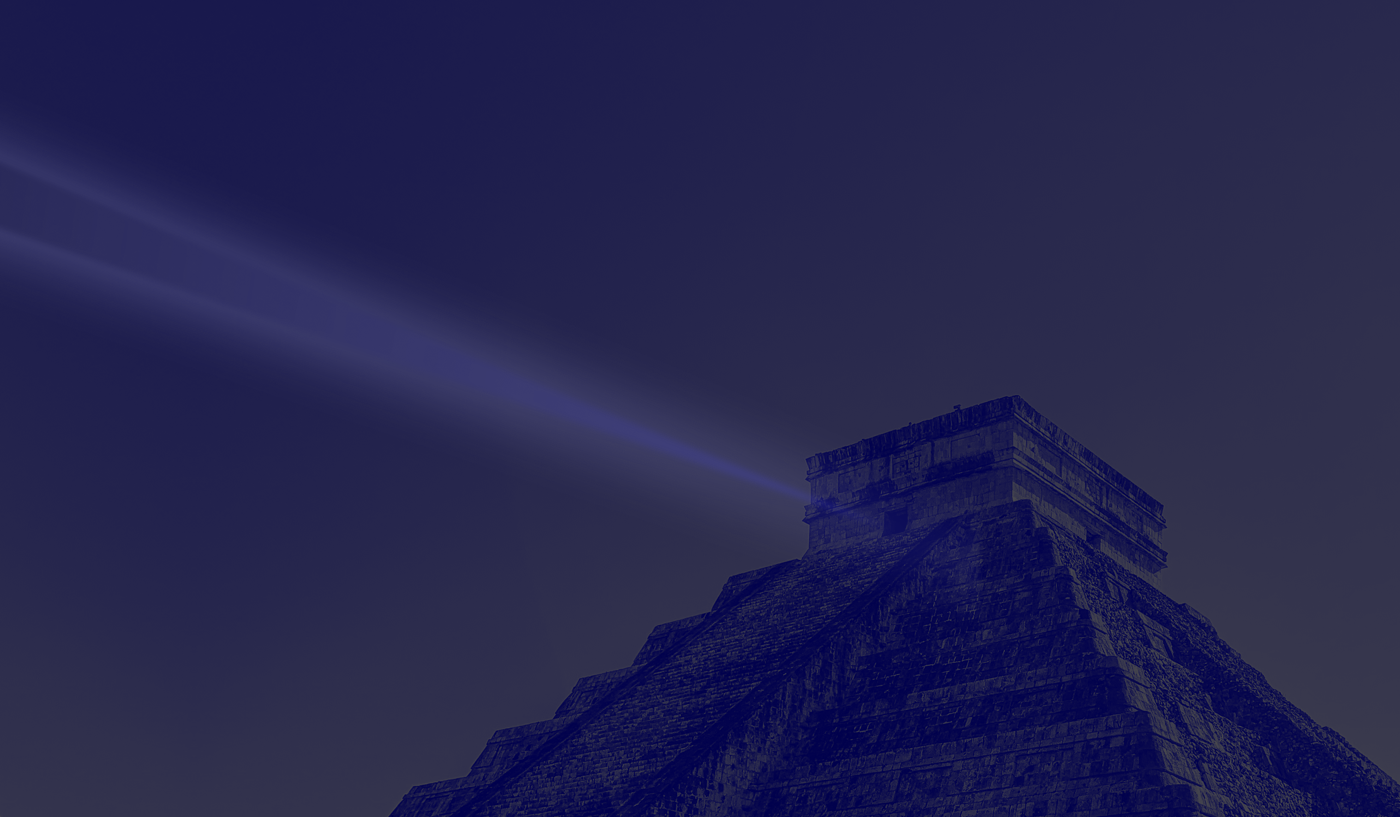
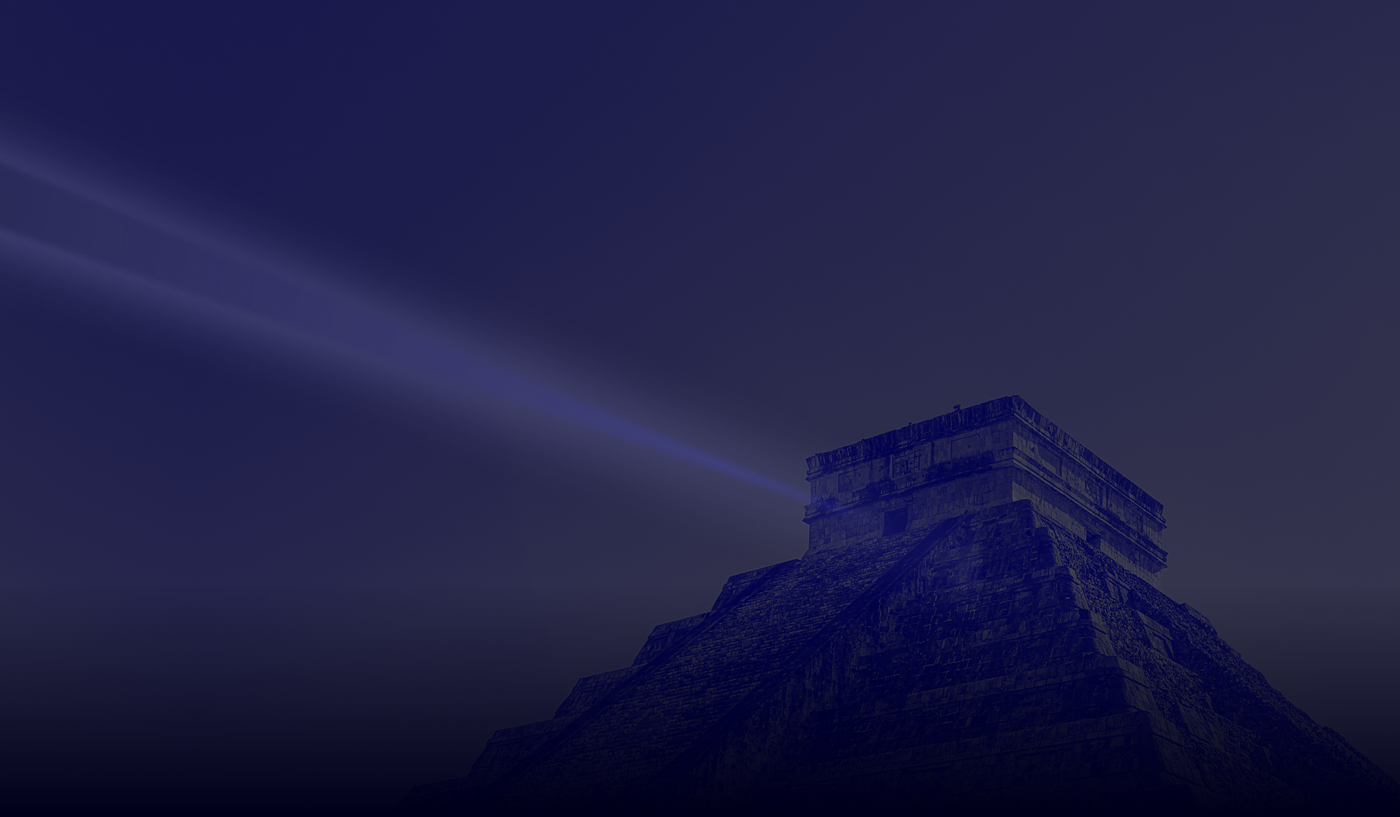
updates to color and background image with gradient

Changed region(s): [[0.0, 0.8262, 1.0, 1.0]]

diff --git a/css/grayscale.min.css b/css/grayscale.min.css
@@ -2,4 +2,4 @@
  * Start Bootstrap - Grayscale v5.0.8 (https://startbootstrap.com/template-overviews/grayscale)
  * Copyright 2013-2019 Start Bootstrap
  * Licensed under MIT (https://github.com/BlackrockDigital/startbootstrap-grayscale/blob/master/LICENSE)
- */#mainNav{min-height:56px;background-color:#003;border-radius:0;border-bottom:1px solid #009;box-shadow:0 0 12px 0 rgba(0,0,0,.4)!important}#mainNav .navbar{padding:.25rem}#mainNav .navbar-toggler{font-size:80%;padding:1rem;color:#8080ff;border:1px solid #8080ff;border-radius:0}#mainNav .navbar-toggler:focus{outline:0}#mainNav .navbar-toggler:focus:hover{color:#8080ff;border:1px solid #8080ff}#mainNav .navbar-brand{color:#ccc;font-weight:700;padding:0}.navbar-dark .navbar-nav .nav-link{transition:.5s;color:#ccc;padding:1rem 1rem}.navbar-dark .navbar-nav .nav-link:hover{color:#8080ff}.navbar-dark .navbar-nav .nav-link.active{color:#8080ff}.nav-svg{height:40px}.masthead{position:relative;min-height:35rem;padding:15rem 0;-o-object-fit:cover;object-fit:cover;overflow:hidden;height:100vh}.masthead:before{content:' ';opacity:1;-webkit-animation:bg-animation 2.8s ease-in 0s;animation:bg-animation 2.8s ease-in 0s;top:0;position:absolute;width:100%;height:100%;background-color:#00f;background:url(../img/sn-bg-large-1.png);background-position:top center;background-repeat:no-repeat;background-attachment:scroll;background-size:cover;z-index:-1}h4{font-size:1rem;font-family:"Barlow Condensed",sans-serif;line-height:1.375rem;text-transform:uppercase}h3{font-size:2rem;font-family:"Barlow Condensed",sans-serif;line-height:2.375rem;text-transform:uppercase}h2{font-size:3rem;font-family:"Barlow Condensed",sans-serif;line-height:3.375rem;text-transform:uppercase}h1{font-size:4rem;font-family:"Barlow Condensed",sans-serif;line-height:4.375rem;text-transform:uppercase}@media screen and (max-width:768px){h4{font-size:.75rem;font-family:"Barlow Condensed",sans-serif;line-height:1rem;text-transform:uppercase}h3{font-size:1.5rem;font-family:"Barlow Condensed",sans-serif;line-height:1.75rem;text-transform:uppercase}h2{font-size:2.25rem;font-family:"Barlow Condensed",sans-serif;line-height:2.5rem;text-transform:uppercase}h1{font-size:3rem;font-family:"Barlow Condensed",sans-serif;line-height:3.25rem;text-transform:uppercase}}.btn{padding:.5rem;font-family:"Open Sans",sans-serif;font-size:80%;text-transform:uppercase;letter-spacing:0;border:0;box-shadow:0 22px 12px -14px rgba(0,0,0,.2)!important;transition:all 2s ease 0s;outline:0;border-radius:0;border-color:none}.btn-primary{background:#00f;text-decoration:none}.btn-primary:hover{color:#fff;background-color:#33f;box-shadow:0 14px 6px -8px rgba(0,0,0,.3)!important;transform:translateY(-2px);transition-duration:.5s}.btn-primary:focus{color:#fff;background-color:#33f;box-shadow:0 16px 6px -8px rgba(0,0,0,.3)!important;outline:0}.btn-primary:active{color:#fff;background-color:#0000b3!important;box-shadow:0 8px 6px -8px rgba(0,0,0,.5);transform:translateY(1px);transition-duration:.1s;transition-delay:0s}.btn-primary:not(:disabled):not(.disabled).active{border-color:none}.btn-project{margin-top:1rem}a{color:#8080ff;text-decoration:none}a:hover{color:#e6e6ff;text-decoration:underline}.projects-section .featured-text{color:#fff;padding:2rem}@media (min-width:320px){.projects-section .featured-text{padding:0 0 0 2rem;border-left:.5rem solid #00f}}.projects-section .project-text{padding:2rem;font-size:90%}@media (min-width:992px){.projects-section .project-text{padding:2rem}.projects-section .project-text hr{border-color:#00f;border-width:.25rem;width:30%}}.contact-section{padding:4rem 0 0}.contact-section .card{border:0;border-bottom:.25rem solid #00f}.contact-section .card h4{font-size:.8rem;font-family:"Barlow Condensed",sans-serif;text-transform:uppercase;letter-spacing:.15rem}.contact-section .card hr{border-color:#00f;border-width:.25rem;width:3rem}.contact-section .social{margin-top:5rem}.contact-section .social a{text-align:center;height:3rem;width:3rem;background:rgba(255,255,255,.1);border-radius:100%;line-height:3rem;color:rgba(255,255,255,.3)}.contact-section .social a:hover{color:rgba(255,255,255,.5)}.contact-section .social a:active{color:#fff}.h1-my-name-animation{color:#fff;-webkit-animation:text-flicker-in-glow 1s ease-in 3s;animation:text-flicker-in-glow 1s ease-in 3s;-webkit-animation-fill-mode:backwards;animation-fill-mode:backwards}.fadeIn{-webkit-animation:fadeIn 1s ease-in-out 1.6s;animation:fadeIn 1s ease-in-out 1.6s;-webkit-animation-fill-mode:backwards;animation-fill-mode:backwards}.tagline-fadeIn{-webkit-animation:text-flicker-in-glow 2s ease-in 0s;animation:text-flicker-in-glow 2s ease-in 0s;-webkit-animation-fill-mode:backwards;animation-fill-mode:backwards}.btn-moveInFromTop{-webkit-animation:btn-moveInFromTop 2.6s ease-in 0s;animation:btn-moveInFromTop 2.6s ease-in 0s;-webkit-animation-fill-mode:backwards;animation-fill-mode:backwards}@-webkit-keyframes fadeIn{0%{transform:translateY(-12px);opacity:0;filter:blur(12px);-webkit-filter:blur(12px)}10%{opacity:0}100%{transform:translateY(0);opacity:1;filter:blur(0);-webkit-filter:blur(0)}}@keyframes fadeIn{0%{transform:translateY(-12px);opacity:0;filter:blur(12px);-webkit-filter:blur(12px)}10%{opacity:0}100%{transform:translateY(0);opacity:1;filter:blur(0);-webkit-filter:blur(0)}}@-webkit-keyframes bg-animation{0%{opacity:0;background:url(../img/sn-bg-large-0.png);background-position:top center;background-repeat:no-repeat;background-attachment:scroll;background-size:cover;filter:blur(8px);-webkit-filter:blur(8px)}80%{opacity:1;background:url(../img/sn-bg-large-0.png);background-position:top center;background-repeat:no-repeat;background-attachment:scroll;background-size:cover}100%{opacity:1;background:url(../img/sn-bg-large-1.png);background-position:top center;background-repeat:no-repeat;background-attachment:scroll;background-size:cover}}@keyframes bg-animation{0%{opacity:0;background:url(../img/sn-bg-large-0.png);background-position:top center;background-repeat:no-repeat;background-attachment:scroll;background-size:cover;filter:blur(8px);-webkit-filter:blur(8px)}80%{opacity:1;background:url(../img/sn-bg-large-0.png);background-position:top center;background-repeat:no-repeat;background-attachment:scroll;background-size:cover}100%{opacity:1;background:url(../img/sn-bg-large-1.png);background-position:top center;background-repeat:no-repeat;background-attachment:scroll;background-size:cover}}@-webkit-keyframes btn-moveInFromTop{0%{opacity:1;transform:translateY(-1000px);background-color:#fff;filter:blur(40px);-webkit-filter:blur(40px);border-radius:100px}50%{opacity:.5;filter:blur(12px);-webkit-filter:blur(12px);background-color:#fff;border-radius:100px}80%{opacity:0;transform:translateY(0);filter:blur(12px);-webkit-filter:blur(12px);background-color:#fff;border-radius:100px}100%{opacity:1;transform:translateY(0);filter:blur(0);-webkit-filter:blur(0);background-color:#00f;border-radius:0}}@keyframes btn-moveInFromTop{0%{opacity:1;transform:translateY(-1000px);background-color:#fff;filter:blur(40px);-webkit-filter:blur(40px);border-radius:100px}50%{opacity:.5;filter:blur(12px);-webkit-filter:blur(12px);background-color:#fff;border-radius:100px}80%{opacity:0;transform:translateY(0);filter:blur(12px);-webkit-filter:blur(12px);background-color:#fff;border-radius:100px}100%{opacity:1;transform:translateY(0);filter:blur(0);-webkit-filter:blur(0);background-color:#00f;border-radius:0}}@-webkit-keyframes text-flicker-in-glow{0%{opacity:0;filter:blur(6px);-webkit-filter:blur(6px)}10%{opacity:0;text-shadow:none}10.1%{opacity:1;text-shadow:none}10.2%{opacity:0;text-shadow:none}20%{opacity:0;text-shadow:none}20.1%{opacity:1;text-shadow:0 0 30px rgba(255,255,255,.25)}20.6%{opacity:0;text-shadow:none}30%{opacity:0;text-shadow:none}30.1%{opacity:1;text-shadow:0 0 30px rgba(255,255,255,.45),0 0 60px rgba(255,255,255,.25)}30.5%{opacity:1;text-shadow:0 0 30px rgba(255,255,255,.45),0 0 60px rgba(255,255,255,.25)}30.6%{opacity:0;text-shadow:none}45%{opacity:0;text-shadow:none}45.1%{opacity:1;text-shadow:0 0 30px rgba(255,255,255,.45),0 0 60px rgba(255,255,255,.25)}50%{opacity:1;text-shadow:0 0 30px rgba(255,255,255,.45),0 0 60px rgba(255,255,255,.25)}55%{opacity:1;text-shadow:0 0 30px rgba(255,255,255,.45),0 0 60px rgba(255,255,255,.25)}55.1%{opacity:0;text-shadow:none}57%{opacity:0;text-shadow:none}57.1%{opacity:1;text-shadow:0 0 30px rgba(255,255,255,.55),0 0 60px rgba(255,255,255,.35)}60%{opacity:1;text-shadow:0 0 30px rgba(255,255,255,.55),0 0 60px rgba(255,255,255,.35)}60.1%{opacity:0;text-shadow:none}65%{opacity:0;text-shadow:none}65.1%{opacity:1;text-shadow:0 0 30px rgba(255,255,255,.55),0 0 60px rgba(255,255,255,.35),0 0 100px rgba(255,255,255,.1)}75%{opacity:1;text-shadow:0 0 30px rgba(255,255,255,.55),0 0 60px rgba(255,255,255,.35),0 0 100px rgba(255,255,255,.1)}75.1%{opacity:0;text-shadow:none}77%{opacity:0;text-shadow:none}77.1%{opacity:1;text-shadow:0 0 30px rgba(255,255,255,.55),0 0 60px rgba(255,255,255,.4),0 0 110px rgba(255,255,255,.2),0 0 100px rgba(255,255,255,.1)}85%{opacity:1;text-shadow:0 0 30px rgba(255,255,255,.55),0 0 60px rgba(255,255,255,.4),0 0 110px rgba(255,255,255,.2),0 0 100px rgba(255,255,255,.1);filter:blur(0);-webkit-filter:blur(0)}85.1%{opacity:0;text-shadow:none}86%{opacity:0;text-shadow:none}86.1%{opacity:1;text-shadow:0 0 30px rgba(255,255,255,.6),0 0 60px rgba(255,255,255,.45),0 0 110px rgba(255,255,255,.25),0 0 100px rgba(255,255,255,.1)}100%{opacity:1;text-shadow:0 0 30px rgba(255,255,255,.6),0 0 60px rgba(255,255,255,.45),0 0 110px rgba(255,255,255,.25),0 0 100px rgba(255,255,255,.1)}}@keyframes text-flicker-in-glow{0%{opacity:0;filter:blur(6px);-webkit-filter:blur(6px)}10%{opacity:0;text-shadow:none}10.1%{opacity:1;text-shadow:none}10.2%{opacity:0;text-shadow:none}20%{opacity:0;text-shadow:none}20.1%{opacity:1;text-shadow:0 0 30px rgba(255,255,255,.25)}20.6%{opacity:0;text-shadow:none}30%{opacity:0;text-shadow:none}30.1%{opacity:1;text-shadow:0 0 30px rgba(255,255,255,.45),0 0 60px rgba(255,255,255,.25)}30.5%{opacity:1;text-shadow:0 0 30px rgba(255,255,255,.45),0 0 60px rgba(255,255,255,.25)}30.6%{opacity:0;text-shadow:none}45%{opacity:0;text-shadow:none}45.1%{opacity:1;text-shadow:0 0 30px rgba(255,255,255,.45),0 0 60px rgba(255,255,255,.25)}50%{opacity:1;text-shadow:0 0 30px rgba(255,255,255,.45),0 0 60px rgba(255,255,255,.25)}55%{opacity:1;text-shadow:0 0 30px rgba(255,255,255,.45),0 0 60px rgba(255,255,255,.25)}55.1%{opacity:0;text-shadow:none}57%{opacity:0;text-shadow:none}57.1%{opacity:1;text-shadow:0 0 30px rgba(255,255,255,.55),0 0 60px rgba(255,255,255,.35)}60%{opacity:1;text-shadow:0 0 30px rgba(255,255,255,.55),0 0 60px rgba(255,255,255,.35)}60.1%{opacity:0;text-shadow:none}65%{opacity:0;text-shadow:none}65.1%{opacity:1;text-shadow:0 0 30px rgba(255,255,255,.55),0 0 60px rgba(255,255,255,.35),0 0 100px rgba(255,255,255,.1)}75%{opacity:1;text-shadow:0 0 30px rgba(255,255,255,.55),0 0 60px rgba(255,255,255,.35),0 0 100px rgba(255,255,255,.1)}75.1%{opacity:0;text-shadow:none}77%{opacity:0;text-shadow:none}77.1%{opacity:1;text-shadow:0 0 30px rgba(255,255,255,.55),0 0 60px rgba(255,255,255,.4),0 0 110px rgba(255,255,255,.2),0 0 100px rgba(255,255,255,.1)}85%{opacity:1;text-shadow:0 0 30px rgba(255,255,255,.55),0 0 60px rgba(255,255,255,.4),0 0 110px rgba(255,255,255,.2),0 0 100px rgba(255,255,255,.1);filter:blur(0);-webkit-filter:blur(0)}85.1%{opacity:0;text-shadow:none}86%{opacity:0;text-shadow:none}86.1%{opacity:1;text-shadow:0 0 30px rgba(255,255,255,.6),0 0 60px rgba(255,255,255,.45),0 0 110px rgba(255,255,255,.25),0 0 100px rgba(255,255,255,.1)}100%{opacity:1;text-shadow:0 0 30px rgba(255,255,255,.6),0 0 60px rgba(255,255,255,.45),0 0 110px rgba(255,255,255,.25),0 0 100px rgba(255,255,255,.1)}}body{background-color:#00001a}body p{font-family:"Open Sans",sans-serif;letter-spacing:.0625em;line-height:1.5rem}@media (min-width:992px){#mainNav{height:56px;padding-top:0;padding-bottom:0;background-color:#00001a;border-bottom:1px solid #009;transition:background-color .3s ease-in-out;box-shadow:0 0 12px 0 rgba(0,0,0,.4)!important}#mainNav .navbar-brand{padding:.5rem 0;color:#ccc}#mainNav .navbar-brand:hover{color:#8080ff}#mainNav .nav-link{transition:none;padding:1rem 1.5rem .8rem 1.5rem;color:#ccc;border-bottom:.25rem solid transparent;transition:.5s}#mainNav .nav-link:hover{color:#8080ff}#mainNav .nav-link:active{color:#8080ff}#mainNav.navbar-shrink{background-color:#003}#mainNav.navbar-shrink .navbar-brand{color:#ccc}#mainNav.navbar-shrink .navbar-brand:hover{color:#8080ff}#mainNav.navbar-shrink .nav-link{color:#ccc;padding:1rem 1.5rem .8rem 1.5rem;border-bottom:.25rem solid transparent}#mainNav.navbar-shrink .nav-link:hover{color:#8080ff}#mainNav.navbar-shrink .nav-link:active{color:#8080ff}#mainNav.navbar-shrink .nav-link.active{color:#8080ff;outline:0;border-bottom:.25rem solid #8080ff}}.bg-black{background-color:#00004d!important}.bg-dark{background-color:#2b2b2b!important}.bg-primary{background-color:#00f!important}.text-primary{color:#00f!important}footer{padding:3rem 0}.img-fluid{width:100%;height:auto}@media (max-width:992px){.mb-mobile-2{margin-bottom:2rem}}.flex-center{display:flex;align-items:center;justify-content:center}.contact-section .card{border:0;border-bottom:.25rem solid navy}.contact-section .card hr{border:0;border-bottom:.25rem solid navy}.rotate-90-deg{transform:rotate(90deg)}.rotate-180-deg{transform:rotate(180deg)}@media (max-width:992px){.rotate-180-deg{transform:rotate(0)}}
+ */#mainNav{min-height:56px;background-color:#003;border-radius:0;border-bottom:1px solid #009;box-shadow:0 0 12px 0 rgba(0,0,0,.4)!important}#mainNav .navbar{padding:.25rem}#mainNav .navbar-toggler{font-size:80%;padding:1rem;color:#8080ff;border:1px solid #8080ff;border-radius:0}#mainNav .navbar-toggler:focus{outline:0}#mainNav .navbar-toggler:focus:hover{color:#8080ff;border:1px solid #8080ff}#mainNav .navbar-brand{color:#ccc;font-weight:700;padding:0}.navbar-dark .navbar-nav .nav-link{transition:.5s;color:#ccc;padding:1rem 1rem}.navbar-dark .navbar-nav .nav-link:hover{color:#8080ff}.navbar-dark .navbar-nav .nav-link.active{color:#8080ff}.nav-svg{height:48px}.masthead{position:relative;min-height:35rem;padding:15rem 0;-o-object-fit:cover;object-fit:cover;overflow:hidden;height:100vh}.masthead:before{content:' ';opacity:1;-webkit-animation:bg-animation 2.8s ease-in 0s;animation:bg-animation 2.8s ease-in 0s;top:0;position:absolute;width:100%;height:100%;background-color:#00f;background:url(../img/sn-bg-large-1.png);background-position:bottom center;background-repeat:no-repeat;background-attachment:scroll;background-size:cover;z-index:-1}h4{font-size:1rem;font-family:"Barlow Condensed",sans-serif;line-height:1.375rem;text-transform:uppercase}h3{font-size:2rem;font-family:"Barlow Condensed",sans-serif;line-height:2.375rem;text-transform:uppercase}h2{font-size:3rem;font-family:"Barlow Condensed",sans-serif;line-height:3.375rem;text-transform:uppercase}h1{font-size:4rem;font-family:"Barlow Condensed",sans-serif;line-height:4.375rem;text-transform:uppercase}@media screen and (max-width:768px){h4{font-size:.75rem;font-family:"Barlow Condensed",sans-serif;line-height:1rem;text-transform:uppercase}h3{font-size:1.5rem;font-family:"Barlow Condensed",sans-serif;line-height:1.75rem;text-transform:uppercase}h2{font-size:2.25rem;font-family:"Barlow Condensed",sans-serif;line-height:2.5rem;text-transform:uppercase}h1{font-size:3rem;font-family:"Barlow Condensed",sans-serif;line-height:3.25rem;text-transform:uppercase}}.btn{padding:.5rem;font-family:"Open Sans",sans-serif;font-size:80%;text-transform:uppercase;letter-spacing:0;border:0;box-shadow:0 22px 12px -14px rgba(0,0,0,.2)!important;transition:all 2s ease 0s;outline:0;border-radius:0;border-color:none}.btn-primary{background:#00f;text-decoration:none}.btn-primary:hover{color:#fff;background-color:#33f;box-shadow:0 14px 6px -8px rgba(0,0,0,.3)!important;transform:translateY(-2px);transition-duration:.5s}.btn-primary:focus{color:#fff;background-color:#33f;box-shadow:0 16px 6px -8px rgba(0,0,0,.3)!important;outline:0}.btn-primary:active{color:#fff;background-color:#0000b3!important;box-shadow:0 8px 6px -8px rgba(0,0,0,.5);transform:translateY(1px);transition-duration:.1s;transition-delay:0s}.btn-primary:not(:disabled):not(.disabled).active{border-color:none}.btn-project{margin-top:1rem}a{color:#8080ff;text-decoration:none}a:hover{color:#e6e6ff;text-decoration:underline}.projects-section .featured-text{color:#fff;padding:2rem}@media (min-width:320px){.projects-section .featured-text{padding:0 0 0 2rem;border-left:.5rem solid #00f}}.projects-section .project-text{padding:2rem;font-size:90%}@media (min-width:992px){.projects-section .project-text{padding:2rem}.projects-section .project-text hr{border-color:#00f;border-width:.25rem;width:30%}}.contact-section{padding:4rem 0 0}.contact-section .card{border:0;border-bottom:.25rem solid #00f}.contact-section .card h4{font-size:.8rem;font-family:"Barlow Condensed",sans-serif;text-transform:uppercase;letter-spacing:.15rem}.contact-section .card hr{border-color:#00f;border-width:.25rem;width:3rem}.contact-section .social{margin-top:5rem}.contact-section .social a{text-align:center;height:3rem;width:3rem;background:rgba(255,255,255,.1);border-radius:100%;line-height:3rem;color:rgba(255,255,255,.3)}.contact-section .social a:hover{color:rgba(255,255,255,.5)}.contact-section .social a:active{color:#fff}.h1-my-name-animation{color:#fff;-webkit-animation:text-flicker-in-glow 1s ease-in 3s;animation:text-flicker-in-glow 1s ease-in 3s;-webkit-animation-fill-mode:backwards;animation-fill-mode:backwards}.fadeIn{-webkit-animation:fadeIn 1s ease-in-out 1.6s;animation:fadeIn 1s ease-in-out 1.6s;-webkit-animation-fill-mode:backwards;animation-fill-mode:backwards}.tagline-fadeIn{-webkit-animation:text-flicker-in-glow 2s ease-in 0s;animation:text-flicker-in-glow 2s ease-in 0s;-webkit-animation-fill-mode:backwards;animation-fill-mode:backwards}.btn-moveInFromTop{-webkit-animation:btn-moveInFromTop 2.6s ease-in 0s;animation:btn-moveInFromTop 2.6s ease-in 0s;-webkit-animation-fill-mode:backwards;animation-fill-mode:backwards}@-webkit-keyframes fadeIn{0%{transform:translateY(-12px);opacity:0;filter:blur(12px);-webkit-filter:blur(12px)}10%{opacity:0}100%{transform:translateY(0);opacity:1;filter:blur(0);-webkit-filter:blur(0)}}@keyframes fadeIn{0%{transform:translateY(-12px);opacity:0;filter:blur(12px);-webkit-filter:blur(12px)}10%{opacity:0}100%{transform:translateY(0);opacity:1;filter:blur(0);-webkit-filter:blur(0)}}@-webkit-keyframes bg-animation{0%{opacity:0;background:url(../img/sn-bg-large-0.png);background-position:bottom center;background-repeat:no-repeat;background-attachment:scroll;background-size:cover;filter:blur(8px);-webkit-filter:blur(8px)}80%{opacity:1;background:url(../img/sn-bg-large-0.png);background-position:bottom center;background-repeat:no-repeat;background-attachment:scroll;background-size:cover}100%{opacity:1;background:url(../img/sn-bg-large-1.png);background-position:bottom center;background-repeat:no-repeat;background-attachment:scroll;background-size:cover}}@keyframes bg-animation{0%{opacity:0;background:url(../img/sn-bg-large-0.png);background-position:bottom center;background-repeat:no-repeat;background-attachment:scroll;background-size:cover;filter:blur(8px);-webkit-filter:blur(8px)}80%{opacity:1;background:url(../img/sn-bg-large-0.png);background-position:bottom center;background-repeat:no-repeat;background-attachment:scroll;background-size:cover}100%{opacity:1;background:url(../img/sn-bg-large-1.png);background-position:bottom center;background-repeat:no-repeat;background-attachment:scroll;background-size:cover}}@-webkit-keyframes btn-moveInFromTop{0%{opacity:1;transform:translateY(-1000px);background-color:#fff;filter:blur(40px);-webkit-filter:blur(40px);border-radius:100px}50%{opacity:.5;filter:blur(12px);-webkit-filter:blur(12px);background-color:#fff;border-radius:100px}80%{opacity:0;transform:translateY(0);filter:blur(12px);-webkit-filter:blur(12px);background-color:#fff;border-radius:100px}100%{opacity:1;transform:translateY(0);filter:blur(0);-webkit-filter:blur(0);background-color:#00f;border-radius:0}}@keyframes btn-moveInFromTop{0%{opacity:1;transform:translateY(-1000px);background-color:#fff;filter:blur(40px);-webkit-filter:blur(40px);border-radius:100px}50%{opacity:.5;filter:blur(12px);-webkit-filter:blur(12px);background-color:#fff;border-radius:100px}80%{opacity:0;transform:translateY(0);filter:blur(12px);-webkit-filter:blur(12px);background-color:#fff;border-radius:100px}100%{opacity:1;transform:translateY(0);filter:blur(0);-webkit-filter:blur(0);background-color:#00f;border-radius:0}}@-webkit-keyframes text-flicker-in-glow{0%{opacity:0;filter:blur(6px);-webkit-filter:blur(6px)}10%{opacity:0;text-shadow:none}10.1%{opacity:1;text-shadow:none}10.2%{opacity:0;text-shadow:none}20%{opacity:0;text-shadow:none}20.1%{opacity:1;text-shadow:0 0 30px rgba(255,255,255,.25)}20.6%{opacity:0;text-shadow:none}30%{opacity:0;text-shadow:none}30.1%{opacity:1;text-shadow:0 0 30px rgba(255,255,255,.45),0 0 60px rgba(255,255,255,.25)}30.5%{opacity:1;text-shadow:0 0 30px rgba(255,255,255,.45),0 0 60px rgba(255,255,255,.25)}30.6%{opacity:0;text-shadow:none}45%{opacity:0;text-shadow:none}45.1%{opacity:1;text-shadow:0 0 30px rgba(255,255,255,.45),0 0 60px rgba(255,255,255,.25)}50%{opacity:1;text-shadow:0 0 30px rgba(255,255,255,.45),0 0 60px rgba(255,255,255,.25)}55%{opacity:1;text-shadow:0 0 30px rgba(255,255,255,.45),0 0 60px rgba(255,255,255,.25)}55.1%{opacity:0;text-shadow:none}57%{opacity:0;text-shadow:none}57.1%{opacity:1;text-shadow:0 0 30px rgba(255,255,255,.55),0 0 60px rgba(255,255,255,.35)}60%{opacity:1;text-shadow:0 0 30px rgba(255,255,255,.55),0 0 60px rgba(255,255,255,.35)}60.1%{opacity:0;text-shadow:none}65%{opacity:0;text-shadow:none}65.1%{opacity:1;text-shadow:0 0 30px rgba(255,255,255,.55),0 0 60px rgba(255,255,255,.35),0 0 100px rgba(255,255,255,.1)}75%{opacity:1;text-shadow:0 0 30px rgba(255,255,255,.55),0 0 60px rgba(255,255,255,.35),0 0 100px rgba(255,255,255,.1)}75.1%{opacity:0;text-shadow:none}77%{opacity:0;text-shadow:none}77.1%{opacity:1;text-shadow:0 0 30px rgba(255,255,255,.55),0 0 60px rgba(255,255,255,.4),0 0 110px rgba(255,255,255,.2),0 0 100px rgba(255,255,255,.1)}85%{opacity:1;text-shadow:0 0 30px rgba(255,255,255,.55),0 0 60px rgba(255,255,255,.4),0 0 110px rgba(255,255,255,.2),0 0 100px rgba(255,255,255,.1);filter:blur(0);-webkit-filter:blur(0)}85.1%{opacity:0;text-shadow:none}86%{opacity:0;text-shadow:none}86.1%{opacity:1;text-shadow:0 0 30px rgba(255,255,255,.6),0 0 60px rgba(255,255,255,.45),0 0 110px rgba(255,255,255,.25),0 0 100px rgba(255,255,255,.1)}100%{opacity:1;text-shadow:0 0 30px rgba(255,255,255,.6),0 0 60px rgba(255,255,255,.45),0 0 110px rgba(255,255,255,.25),0 0 100px rgba(255,255,255,.1)}}@keyframes text-flicker-in-glow{0%{opacity:0;filter:blur(6px);-webkit-filter:blur(6px)}10%{opacity:0;text-shadow:none}10.1%{opacity:1;text-shadow:none}10.2%{opacity:0;text-shadow:none}20%{opacity:0;text-shadow:none}20.1%{opacity:1;text-shadow:0 0 30px rgba(255,255,255,.25)}20.6%{opacity:0;text-shadow:none}30%{opacity:0;text-shadow:none}30.1%{opacity:1;text-shadow:0 0 30px rgba(255,255,255,.45),0 0 60px rgba(255,255,255,.25)}30.5%{opacity:1;text-shadow:0 0 30px rgba(255,255,255,.45),0 0 60px rgba(255,255,255,.25)}30.6%{opacity:0;text-shadow:none}45%{opacity:0;text-shadow:none}45.1%{opacity:1;text-shadow:0 0 30px rgba(255,255,255,.45),0 0 60px rgba(255,255,255,.25)}50%{opacity:1;text-shadow:0 0 30px rgba(255,255,255,.45),0 0 60px rgba(255,255,255,.25)}55%{opacity:1;text-shadow:0 0 30px rgba(255,255,255,.45),0 0 60px rgba(255,255,255,.25)}55.1%{opacity:0;text-shadow:none}57%{opacity:0;text-shadow:none}57.1%{opacity:1;text-shadow:0 0 30px rgba(255,255,255,.55),0 0 60px rgba(255,255,255,.35)}60%{opacity:1;text-shadow:0 0 30px rgba(255,255,255,.55),0 0 60px rgba(255,255,255,.35)}60.1%{opacity:0;text-shadow:none}65%{opacity:0;text-shadow:none}65.1%{opacity:1;text-shadow:0 0 30px rgba(255,255,255,.55),0 0 60px rgba(255,255,255,.35),0 0 100px rgba(255,255,255,.1)}75%{opacity:1;text-shadow:0 0 30px rgba(255,255,255,.55),0 0 60px rgba(255,255,255,.35),0 0 100px rgba(255,255,255,.1)}75.1%{opacity:0;text-shadow:none}77%{opacity:0;text-shadow:none}77.1%{opacity:1;text-shadow:0 0 30px rgba(255,255,255,.55),0 0 60px rgba(255,255,255,.4),0 0 110px rgba(255,255,255,.2),0 0 100px rgba(255,255,255,.1)}85%{opacity:1;text-shadow:0 0 30px rgba(255,255,255,.55),0 0 60px rgba(255,255,255,.4),0 0 110px rgba(255,255,255,.2),0 0 100px rgba(255,255,255,.1);filter:blur(0);-webkit-filter:blur(0)}85.1%{opacity:0;text-shadow:none}86%{opacity:0;text-shadow:none}86.1%{opacity:1;text-shadow:0 0 30px rgba(255,255,255,.6),0 0 60px rgba(255,255,255,.45),0 0 110px rgba(255,255,255,.25),0 0 100px rgba(255,255,255,.1)}100%{opacity:1;text-shadow:0 0 30px rgba(255,255,255,.6),0 0 60px rgba(255,255,255,.45),0 0 110px rgba(255,255,255,.25),0 0 100px rgba(255,255,255,.1)}}body{background-color:#00001a}body p{font-family:"Open Sans",sans-serif;letter-spacing:.0625em;line-height:1.5rem}@media (min-width:992px){#mainNav{height:56px;padding-top:0;padding-bottom:0;background-color:#00001a;border-bottom:1px solid #009;transition:background-color .3s ease-in-out;box-shadow:0 0 12px 0 rgba(0,0,0,.4)!important}#mainNav .navbar-brand{padding:.5rem 0;color:#ccc}#mainNav .navbar-brand:hover{color:#8080ff}#mainNav .nav-link{transition:none;padding:1rem 1.5rem .8rem 1.5rem;color:#ccc;border-bottom:.25rem solid transparent;transition:.5s}#mainNav .nav-link:hover{color:#8080ff}#mainNav .nav-link:active{color:#8080ff}#mainNav.navbar-shrink{background-color:#003}#mainNav.navbar-shrink .navbar-brand{color:#ccc}#mainNav.navbar-shrink .navbar-brand:hover{color:#8080ff}#mainNav.navbar-shrink .nav-link{color:#ccc;padding:1rem 1.5rem .8rem 1.5rem;border-bottom:.25rem solid transparent}#mainNav.navbar-shrink .nav-link:hover{color:#8080ff}#mainNav.navbar-shrink .nav-link:active{color:#8080ff}#mainNav.navbar-shrink .nav-link.active{color:#8080ff;outline:0;border-bottom:.25rem solid #8080ff}}.bg-black{background-color:#003!important}.bg-dark{background-color:#2b2b2b!important}.bg-primary{background-color:#00f!important}.text-primary{color:#00f!important}footer{padding:3rem 0}.img-fluid{width:100%;height:auto}@media (max-width:992px){.mb-mobile-2{margin-bottom:2rem}}.flex-center{display:flex;align-items:center;justify-content:center}.contact-section .card{border:0;border-bottom:.25rem solid navy}.contact-section .card hr{border:0;border-bottom:.25rem solid navy}.rotate-90-deg{transform:rotate(90deg)}.rotate-180-deg{transform:rotate(180deg)}@media (max-width:992px){.rotate-180-deg{transform:rotate(0)}}

diff --git a/css/grayscale.css b/css/grayscale.css
@@ -56,7 +56,7 @@
 }
 
 .nav-svg {
-  height: 40px;
+  height: 48px;
 }
 
 .masthead {
@@ -80,7 +80,7 @@
   height: 100%;
   background-color: #0000FF;
   background: url(../img/sn-bg-large-1.png);
-  background-position: top center;
+  background-position: bottom center;
   background-repeat: no-repeat;
   background-attachment: scroll;
   background-size: cover;
@@ -344,7 +344,7 @@ a:hover {
   0% {
     opacity: 0;
     background: url(../img/sn-bg-large-0.png);
-    background-position: top center;
+    background-position: bottom center;
     background-repeat: no-repeat;
     background-attachment: scroll;
     background-size: cover;
@@ -354,7 +354,7 @@ a:hover {
   80% {
     opacity: 1;
     background: url(../img/sn-bg-large-0.png);
-    background-position: top center;
+    background-position: bottom center;
     background-repeat: no-repeat;
     background-attachment: scroll;
     background-size: cover;
@@ -362,7 +362,7 @@ a:hover {
   100% {
     opacity: 1;
     background: url(../img/sn-bg-large-1.png);
-    background-position: top center;
+    background-position: bottom center;
     background-repeat: no-repeat;
     background-attachment: scroll;
     background-size: cover;
@@ -373,7 +373,7 @@ a:hover {
   0% {
     opacity: 0;
     background: url(../img/sn-bg-large-0.png);
-    background-position: top center;
+    background-position: bottom center;
     background-repeat: no-repeat;
     background-attachment: scroll;
     background-size: cover;
@@ -383,7 +383,7 @@ a:hover {
   80% {
     opacity: 1;
     background: url(../img/sn-bg-large-0.png);
-    background-position: top center;
+    background-position: bottom center;
     background-repeat: no-repeat;
     background-attachment: scroll;
     background-size: cover;
@@ -391,7 +391,7 @@ a:hover {
   100% {
     opacity: 1;
     background: url(../img/sn-bg-large-1.png);
-    background-position: top center;
+    background-position: bottom center;
     background-repeat: no-repeat;
     background-attachment: scroll;
     background-size: cover;
@@ -794,7 +794,7 @@ body p {
 }
 
 .bg-black {
-  background-color: #00004d !important;
+  background-color: #000033 !important;
 }
 
 .bg-dark {

diff --git a/scss/_animations.scss b/scss/_animations.scss
@@ -44,7 +44,7 @@
   0% {
     opacity: 0;
     background: url(../img/sn-bg-large-0.png);
-    background-position: top center;
+    background-position: bottom center;
     background-repeat: no-repeat;
     background-attachment: scroll;
     background-size: cover;
@@ -54,7 +54,7 @@
   80% {
     opacity: 1;
     background: url(../img/sn-bg-large-0.png);
-    background-position: top center;
+    background-position: bottom center;
     background-repeat: no-repeat;
     background-attachment: scroll;
     background-size: cover;
@@ -62,7 +62,7 @@
   100% {
     opacity: 1;
     background: url(../img/sn-bg-large-1.png);
-    background-position: top center;
+    background-position: bottom center;
     background-repeat: no-repeat;
     background-attachment: scroll;
     background-size: cover;

diff --git a/scss/_masthead.scss b/scss/_masthead.scss
@@ -16,7 +16,7 @@
     height: 100%;
     background-color: $primary;
     background: url(../img/sn-bg-large-1.png);
-    background-position: top center;
+    background-position: bottom center;
     background-repeat: no-repeat;
     background-attachment: scroll;
     background-size: cover;

diff --git a/scss/_projects.scss b/scss/_projects.scss
@@ -1,6 +1,6 @@
 .projects-section {
   .featured-text {
-    color:$white;
+    color: $white;
     padding: 2rem;
     @media (min-width: 320px) {
       padding: 0 0 0 2rem;

diff --git a/scss/grayscale.scss b/scss/grayscale.scss
@@ -75,7 +75,7 @@ body {
 }
 
 .bg-black {
-  background-color: $primary-dark-400 !important;
+  background-color: $primary-dark-300 !important;
 }
 
 .bg-dark {

diff --git a/scss/_navbar.scss b/scss/_navbar.scss
@@ -42,5 +42,5 @@
 }
 
 .nav-svg {
-  height: 40px;
+  height: 48px;
 }
